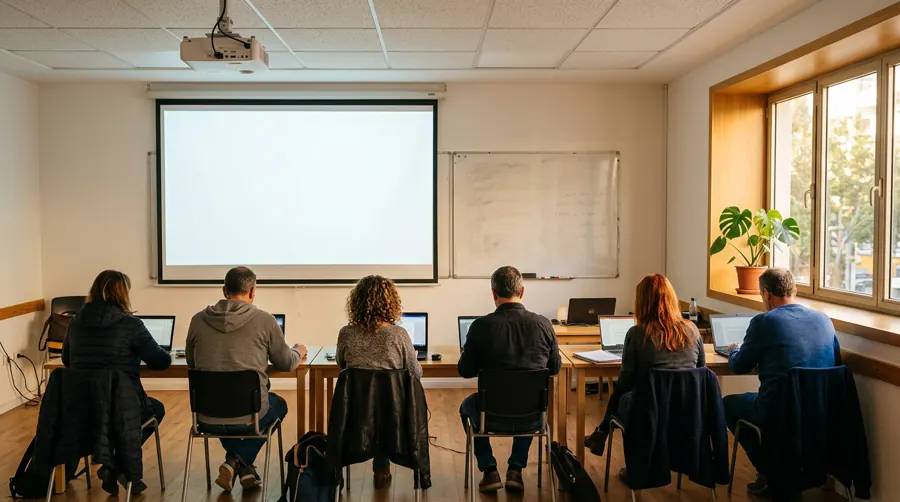
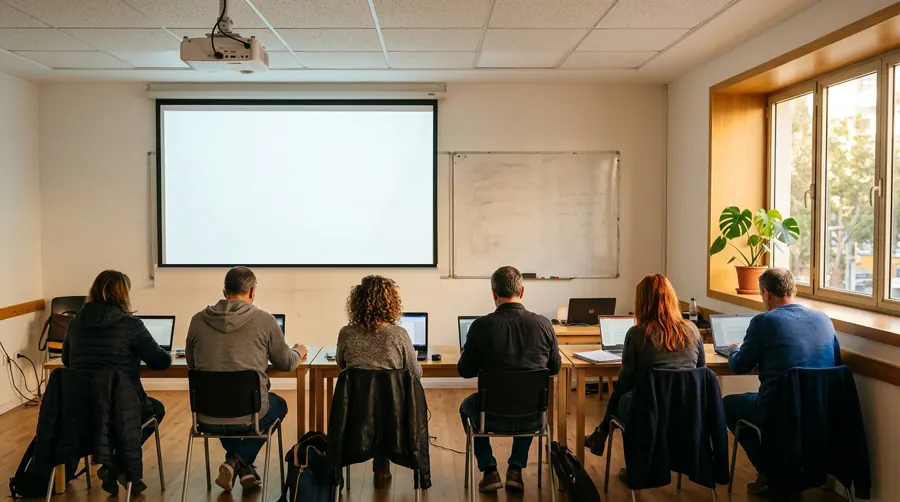
Hero: smaller screen frame, students' heads back in front
Fitting the slide to the whole screen fabric covered the students'
heads, which overlap the bottom of the screen in the photo. Retouch the
photo instead: move the screen's lower frame up to just below the
projected area and keep the heads in front of it. The slide maps to
the projected area only.

Claude-Session: https://claude.ai/code/session_01HmfPRJat2T5QpzdNF3bAYJ

Changed region(s): [[0.1556, 0.508, 0.4978, 0.5976]]

diff --git a/client/src/components/HeroScene.tsx b/client/src/components/HeroScene.tsx
@@ -8,9 +8,9 @@ import { buildSlides, socAlert, socLine, SW, SH, type Lang, type Slide, type Tar
 
 const IMG_W = 1376;
 const IMG_H = 768;
-// Inner edge of the screen's frame in the photo, in image pixels: TL, TR, BR, BL.
-// The slide fills the whole fabric so no strip of the blank screen shows.
-const QUAD: [number, number][] = [[248, 162], [660, 162], [660, 425], [248, 425]];
+// Projected area inside the screen's frame in the photo, in image pixels: TL, TR, BR, BL.
+// The photo is retouched so the frame ends right under it, above the students' heads.
+const QUAD: [number, number][] = [[248, 162], [661, 162], [661, 403], [248, 403]];
 // Projector lens in the photo.
 const LENS: [number, number] = [344, 100];
 // Part of the photo shown on narrow screens: projector, screen and the students' heads.

diff --git a/client/src/components/hero/particleSlides.ts b/client/src/components/hero/particleSlides.ts
@@ -4,7 +4,7 @@
 // white screen: charcoal drawing plus one accent colour per slide.
 
 export const SW = 1600; // slide logical width
-export const SH = 1000; // slide logical height (matches the screen's 1.57 aspect)
+export const SH = 950; // slide logical height (close to the projected area's aspect)
 
 export type Lang = 'he' | 'en';
 

diff --git a/client/public/images/home/README.md b/client/public/images/home/README.md
@@ -12,5 +12,5 @@ AI-generated (Figma generate_image, gemini-3.1-flash-image). Atmosphere only,
 never presented as real students or graduates:
 - ai-private-learner.webp: woman learning on a laptop at home in Tel Aviv, face turned away
 - ai-org-workshop.webp: corporate AI workshop around a long table, instructor at a wall screen
-- ai-hero-projector.webp (+ -sm): classroom in warm daylight with a ceiling projector and a blank projection screen, students seen from behind (hero; the presentation and beam are drawn in code)
+- ai-hero-projector.webp (+ -sm): classroom in warm daylight with a ceiling projector and a blank projection screen, students seen from behind (hero; the presentation and beam are drawn in code). Retouched: the screen's lower frame was moved up to just below the projected area, keeping the students' heads in front
 - handshake-mask.png: AI-generated flat silhouette of two people shaking hands, used only as a shape for the particle drawing
